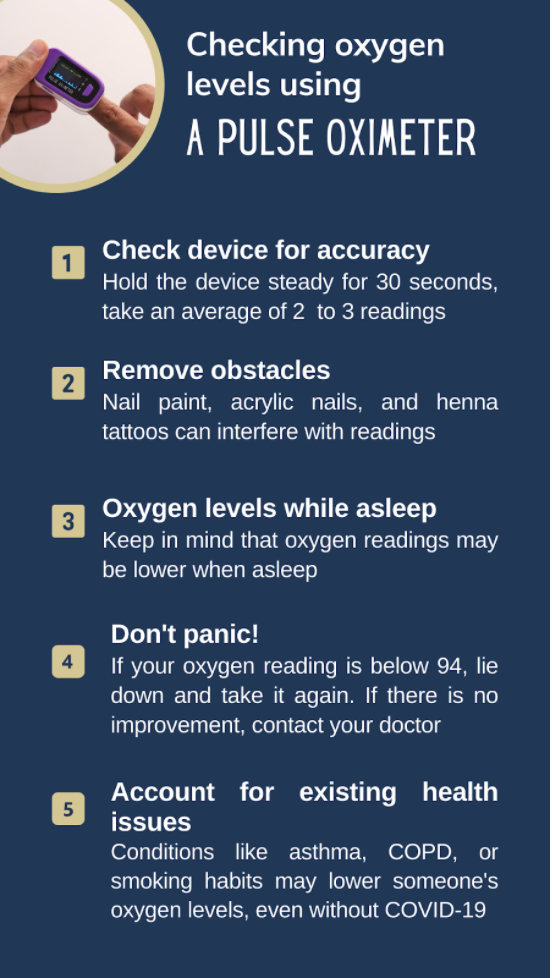
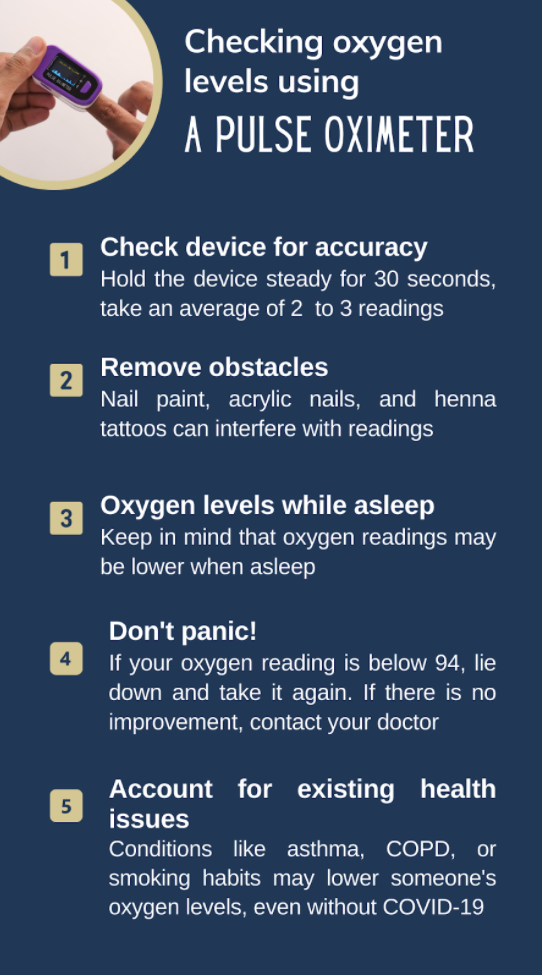
chore: Make images appear smaller

diff --git a/XState-Chatbot/nodejs/src/machine/triage.js b/XState-Chatbot/nodejs/src/machine/triage.js
@@ -372,7 +372,7 @@ const triageFlow = {
             dialog.sendMessage(context, message);
 
             if (context.slots.triage.conclusion == 'noCovidEnd') {
-              const mediaMessage = mediaUtil.createMediaMessage(`${config.staticMediaPath}/home_isolation_todo`, 'png', context.user.locale);
+              const mediaMessage = mediaUtil.createMediaMessage(`${config.staticMediaPath}/home_isolation_todo`, 'jpeg', context.user.locale);
               dialog.sendMessage(context, mediaMessage, false);
             }
           }),
@@ -386,7 +386,7 @@ const triageFlow = {
       states: {
         prompt: {
           onEntry: assign((context, event) => {
-            const mediaMessage = mediaUtil.createMediaMessage(`${config.staticMediaPath}/pulse_oximeter`, 'png', context.user.locale);
+            const mediaMessage = mediaUtil.createMediaMessage(`${config.staticMediaPath}/pulse_oximeter`, 'jpeg', context.user.locale);
             dialog.sendMessage(context, mediaMessage, false);
 
             let message = dialog.get_message(messages.triageSpo2.prompt.preamble, context.user.locale);
@@ -515,7 +515,7 @@ const triageFlow = {
             context.grammer = grammer;
             dialog.sendMessage(context, message);
 
-            const mediaMessage = mediaUtil.createMediaMessage(`${config.staticMediaPath}/ways_to_use_chat_bot`, 'png', context.user.locale);
+            const mediaMessage = mediaUtil.createMediaMessage(`${config.staticMediaPath}/ways_to_use_chat_bot`, 'jpeg', context.user.locale);
             dialog.sendMessage(context, mediaMessage, false);
           }),
           on: {
